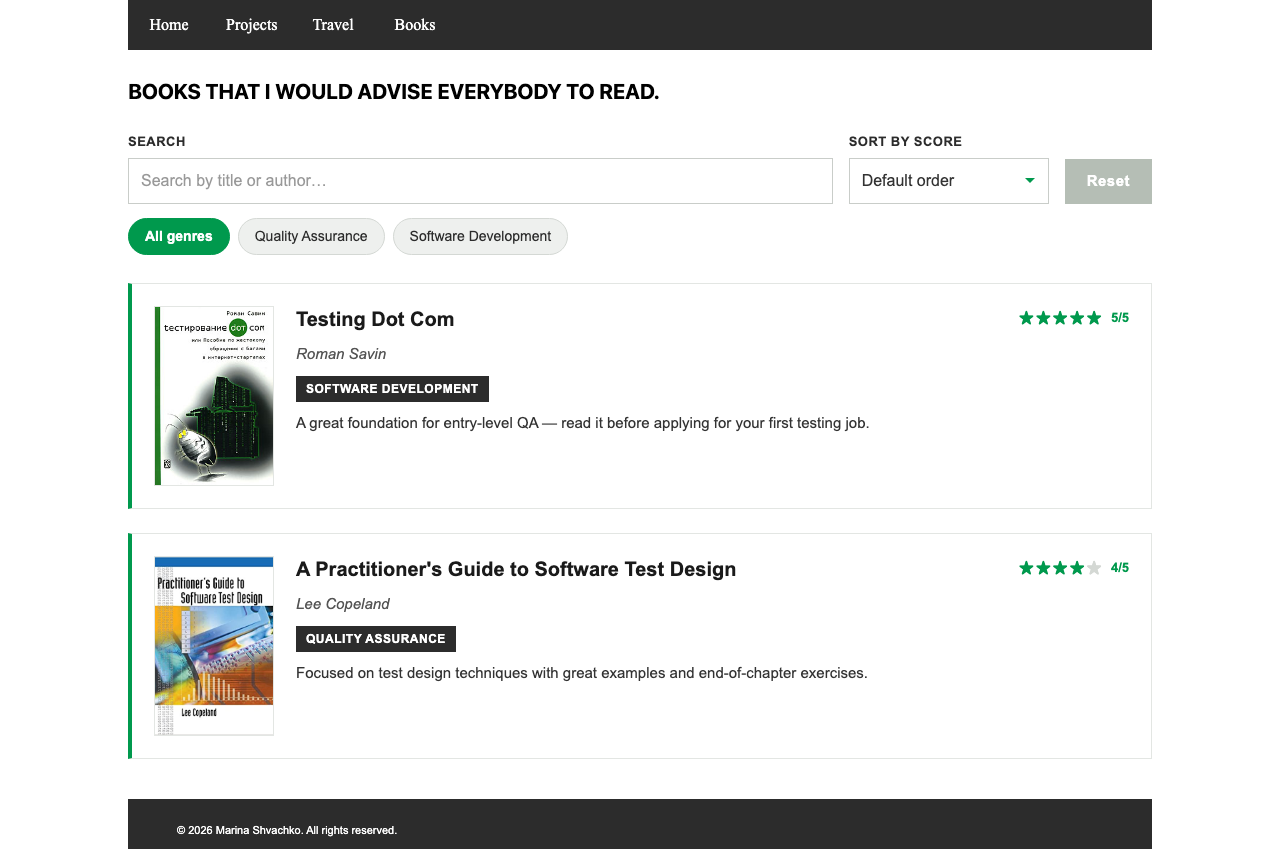
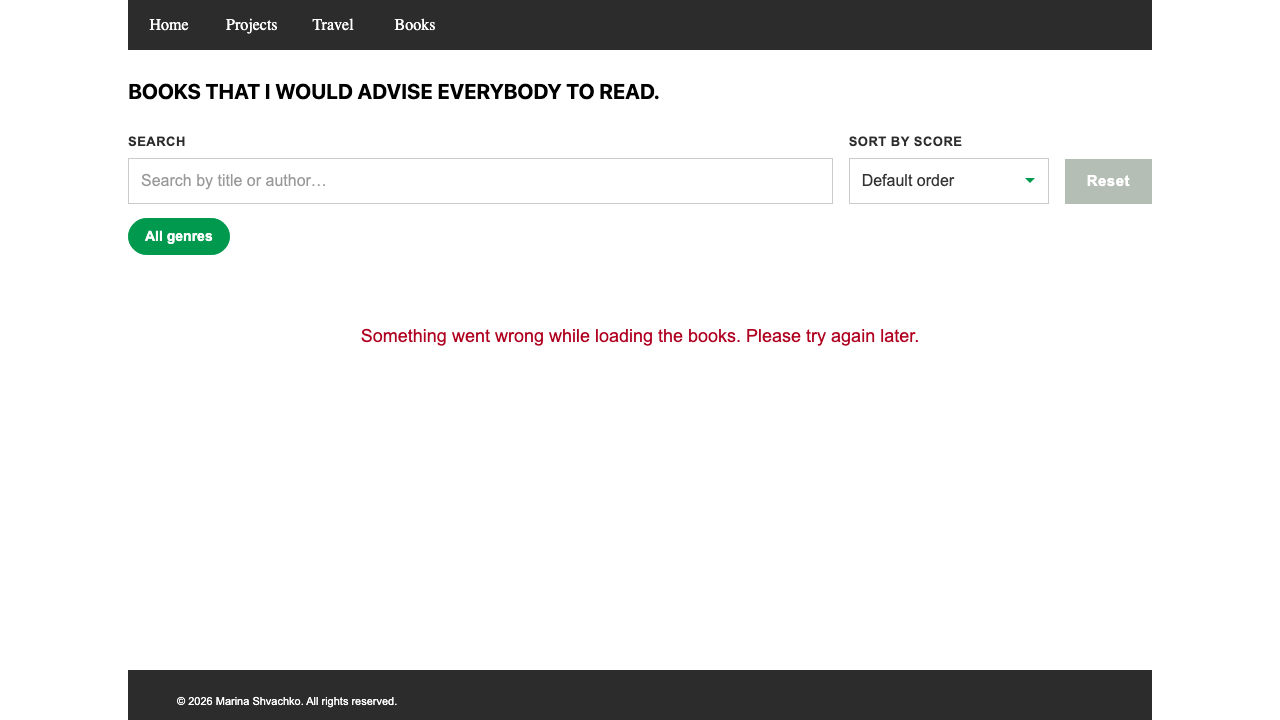
feat(KAN-18): add new book

diff --git a/app/css/booksFilters.css b/app/css/booksFilters.css
@@ -163,7 +163,6 @@
   justify-content: space-between;
   align-items: flex-start;
   gap: 12px;
-  flex-wrap: wrap;
 }
 
 .bookCardTitle {
@@ -173,6 +172,9 @@
   line-height: 1.3;
   color: #1a1a1a;
   margin: 0;
+  flex: 1 1 auto;
+  min-width: 0;
+  overflow-wrap: break-word;
 }
 
 .bookCardScore {